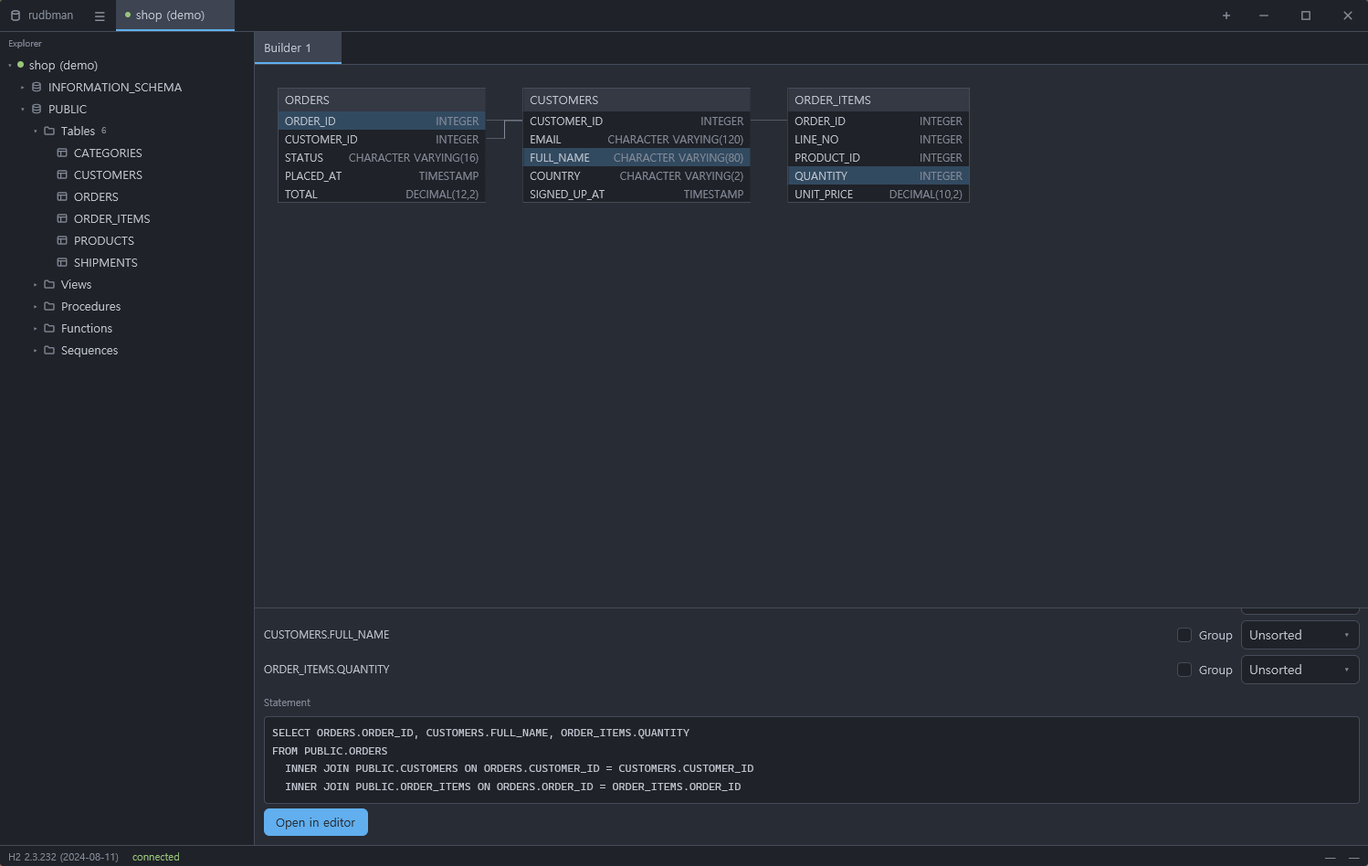
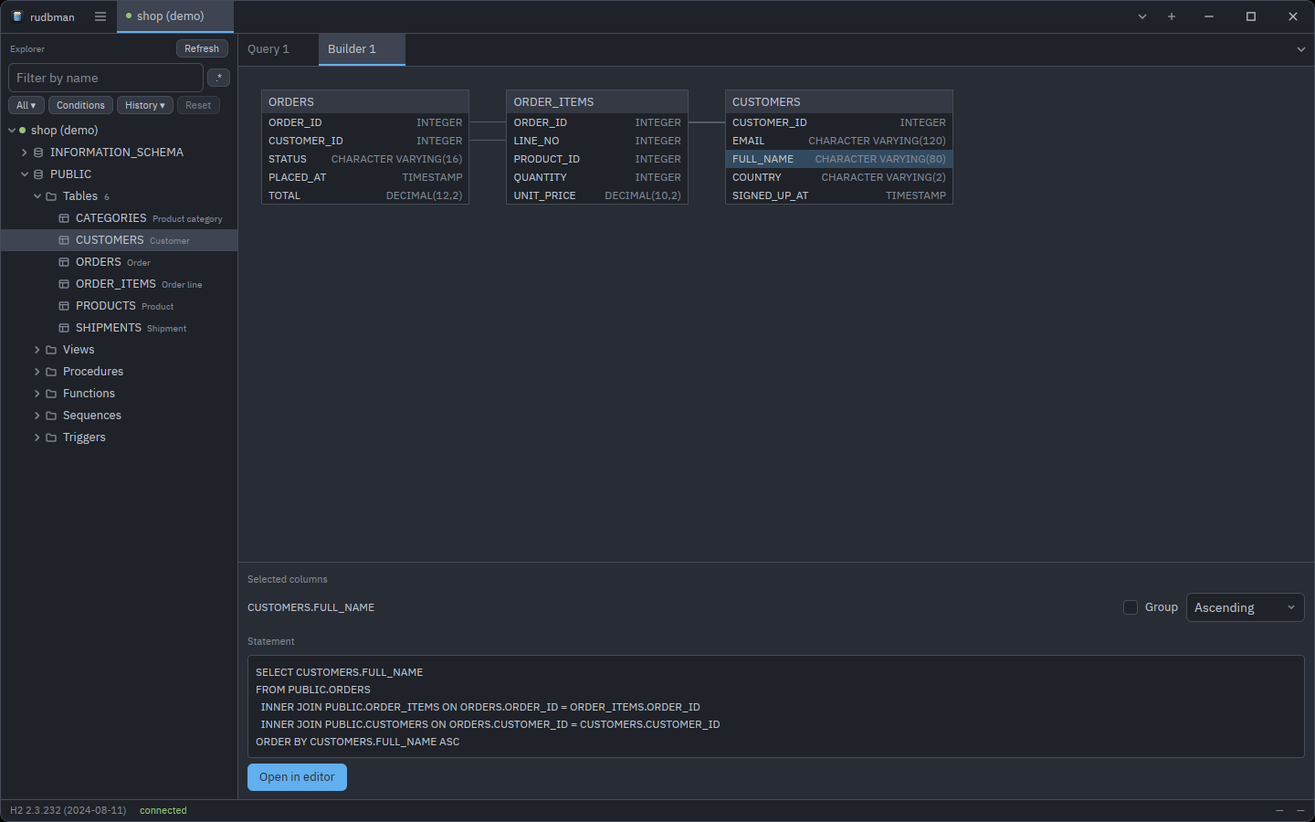
docs: retake screenshots and trim the README
The workbench, ERD and query builder screenshots are retaken from v0.3.8 so
they show the current UI: the editor toolbar, the explorer filter row, the
result log and the ERD toolbar.

The README lists each feature on one line, drops the keyboard shortcut table
and the pointer to the design documents, and names the third-party libraries.

Changed region(s): [[0.0, 0.0, 1.0, 0.56], [0.0, 0.6844, 1.0, 1.0], [0.875, 0.7156, 0.9688, 0.7778]]

diff --git a/README.md b/README.md
@@ -19,309 +19,29 @@ does; this page is the short version.
 
 ## What works today
 
-- **Any JDBC driver.** Drivers are downloaded from Maven Central by
-  coordinate or picked from disk, the driver class is auto-detected from the
-  JAR, and each connection gets its own isolated class loader. H2,
-  PostgreSQL, MySQL, MariaDB, SQLite, Oracle, SQL Server and IBM Db2 come
-  predefined, with their SQL dialects. Row data
-  crosses the JNI boundary in a compact columnar batch format — not as one
-  JSON string per row.
-- **Connections as tabs**, each with its own work area: split panes, tabbed
-  editors and table details, per-connection query numbering. Switching the
-  connection tab switches the explorer and the whole work area with it. With
-  nothing open, a welcome screen lists the saved connections and opens one in
-  a click. Reopening a connection restores its tabs, split layout, SQL drafts,
-  and query builders. Right-click a work tab to rename it; leave its name blank
-  to return to the default. Workspaces save automatically and on close. SQL is
-  restored without running it; result rows and unapplied database edits are not
-  saved. Splitting copies the selected tab into the new pane. Drag a work tab to
-  reorder it or move it to another pane, and drag a connection tab to reorder
-  the connections. A pane disappears when its last tab closes, with the final
-  pane kept open.
-- **Connection folders.** Group saved connections by folder in the connection
-  dialog. Click a folder heading to collapse or expand it, or focus it with
-  <kbd>Tab</kbd> and press <kbd>Space</kbd> or <kbd>Enter</kbd>. Folded folders
-  stay folded when you reopen the dialog during the same app session.
-- **Connections that say why they failed.** A tab that could not connect, or
-  whose session ended, shows the whole error and a hint in its work area, with
-  **Reconnect** (in the same tab), **Edit connection…** and **Copy message**;
-  a bastion's unknown host key can be trusted right there. While connecting
-  the tab can be canceled, and an attempt gives up after the connection
-  timeout in Settings (30 seconds unless changed).
-- **SSH tunnels** with password or private-key auth, loopback binds only,
-  and no PTY on the bastion — `nologin` jump hosts work. Secrets live in the
-  OS keychain, never on disk, and credentials are masked out of logs and
-  JDBC URLs; turn off **Remember password in the system keychain** on a
-  profile to keep nothing and be asked on every connect.
-- **The connection dialog keeps what you type.** Closing it with unsaved
-  edits — Esc, Cancel or a click beside it — asks Save / Discard / Keep
-  editing, and inside it <kbd>Ctrl</kbd>/<kbd>Cmd</kbd>+<kbd>N</kbd> makes a
-  new profile and <kbd>Ctrl</kbd>/<kbd>Cmd</kbd>+<kbd>S</kbd> saves. A new
-  profile starts with no driver chosen; a driver without its JAR offers
-  **Download** right under the picker (from its Maven coordinate, with
-  progress and cancel), and **Drivers…** opens on the driver the form names.
-  The welcome list's right-click menu offers Connect, Edit…, Duplicate… and
-  Delete….
-- **A schema explorer** — catalogs, schemas, tables, views (materialized ones
-  too), procedures, functions, sequences and triggers, opened on connect onto
-  the database and schema the connection landed in, with a filter over the
-  tree: names (`cust`, `*_seq`, `orders, items`, `!tmp*`) or a regular
-  expression, plus a panel of conditions on the name, the comment or the
-  schema (contains, starts with, wildcard, regex, empty…) taken all together
-  or any one of them. It narrows the folders you pick, in the database the
-  connection landed in or in all of them, keeps its own state for each
-  connection tab — and is back as you left it when the profile connects
-  again — and remembers the filters you used for each profile — one
-  click resets the whole filter, and an entry of the remembered list goes with
-  its × or <kbd>Delete</kbd>. Each profile can also hide catalogs, schemas and objects for good, by regular
-  expression (or show only the ones a list matches), as SQL Workbench/J's
-  schema and catalog filters do; a level left with one member is skipped as if
-  the rest were never there — and a
-  detail panel with
-  columns, keys, references in both directions, and DDL in a read-only,
-  highlighted editor (the server's own text where the dialect offers it,
-  rebuilt from the catalog where it does not). Every kind of object shows its
-  `CREATE`, laid out for reading: one column to a line, a view's query as Format
-  SQL writes it, a routine's or a trigger's body indented by block.
-  <kbd>Ctrl</kbd>/<kbd>Cmd</kbd>-click and <kbd>Shift</kbd>-click (or
-  <kbd>Shift</kbd>+<kbd>↑</kbd>/<kbd>↓</kbd>) pick several rows of the tree,
-  and <kbd>Ctrl</kbd>/<kbd>Cmd</kbd>+<kbd>C</kbd> copies their names, one per
-  line; a table's or a view's right-click menu also copies a laid-out
-  `SELECT` of every column — and a table's an `INSERT` with a `:column`
-  placeholder per value — for every table picked. The detail panel's column
-  list picks rows the same way and copies their names, one per line or
-  comma-separated, or the whole rows as tab-separated text.
-- **A SQL workbench**: an editor with incremental dialect-aware highlighting
-  and IME support, SQL keyword/function/table/column completion (including table aliases),
-  statement splitting, run-one/run-selection/run-all,
-  cancellation, multiple result sets, and a virtualized grid that fetches rows
-  as you scroll instead of loading the whole result — up to 200,000 rows per
-  grid, with a note when the result has more.
-  **Format SQL** (<kbd>Ctrl</kbd>/<kbd>Cmd</kbd>+<kbd>Shift</kbd>+<kbd>F</kbd>)
-  lays out the selection, or the whole editor, in the sqlstyle.guide river
-  layout. On a connection that does not commit each statement as it runs, the
-  editor's **Commit** and **Rollback** buttons (<kbd>F11</kbd> /
-  <kbd>F12</kbd>) end the transaction; while it is open the status bar says
-  so, the connection tab wears a dot, the two buttons are lit, and grid
-  applies, structure changes and transfers on that connection are refused —
-  naming the query tab to commit from — rather than committing or discarding
-  it. <kbd>Esc</kbd> in the editor or the results stops a running statement.
-  A script that fails part way logs which statement of how many failed, with
-  its SQL and the error, keeps the results of the statements before it, and
-  selects the failed statement in the editor; error messages and log rows can
-  be copied. The row count reads "500+ rows" while more remain to be fetched,
-  and a run of writes reports the rows they affected.
-  Completion opens while typing or with <kbd>Ctrl</kbd>+<kbd>Space</kbd>:
-  use ↑/↓ to choose, Enter/Tab to insert, and Esc to dismiss. Names come from
-  the current connection, with columns loaded on demand; comments and string
-  literals do not trigger suggestions.
-  Built-in function suggestions include `COUNT`, `SUM`, `AVG`, `MIN`, `MAX`
-  and common scalar functions for the connection's dialect. Completing a
-  function replaces its name while preserving any existing arguments.
-- **Query history.** Every statement a query tab runs because you asked it
-  to is written down per connection profile — when it ran, how long it took,
-  and the rows it returned, the rows it changed or the error it stopped at.
-  **Query history…** (<kbd>Ctrl</kbd>/<kbd>Cmd</kbd>+<kbd>Shift</kbd>+<kbd>H</kbd>,
-  the ☰ menu or a connection tab's right-click menu) lists them newest first
-  with the whole statement under the list: type to search, <kbd>↑</kbd>/<kbd>↓</kbd>
-  to move, and <kbd>Enter</kbd> or a double-click opens the statement in a
-  **new query tab**, without running it. **Copy SQL**, **Delete** and
-  **Clear history…** are beside it, and on a row's right-click menu. A sort's
-  re-run, a grid apply, a plan and a write the profile refused are not
-  recorded. The history is kept, as plain JSON, in `history/<profile-id>.json`
-  under the configuration directory (`~/.config/rudbman` on Linux,
-  `~/Library/Application Support/rudbman` on macOS,
-  `%APPDATA%\rudbman\config` on Windows), up to 1,000 statements and 4 MiB of
-  SQL per profile, oldest dropped first; a statement over 256 KiB is not
-  recorded. Statements can carry secrets: **Keep a history of the statements
-  query tabs run** in Settings turns recording off (what was recorded stays
-  until it is deleted).
-- **Execution plans without running anything.** **Explain plan**
-  (<kbd>Ctrl</kbd>/<kbd>Cmd</kbd>+<kbd>Shift</kbd>+<kbd>E</kbd>, the editor's
-  right-click menu, the toolbar, or the ☰ menu) shows the plan of the
-  selection, or of the statement under the caret, as a read-only "Plan" grid
-  in the result area; the log says the statement was not run, and it is not.
-  PostgreSQL, MySQL, MariaDB and H2 are asked with `EXPLAIN`, SQLite with
-  `EXPLAIN QUERY PLAN`, Oracle with `EXPLAIN PLAN FOR` and then
-  `DBMS_XPLAN.DISPLAY()`, and SQL Server with `SET SHOWPLAN_TEXT ON`, the
-  statement, and `SET SHOWPLAN_TEXT OFF` — sent even when the plan fails, and
-  a failure to send it is said in red, since the connection would otherwise
-  answer every later statement with a plan. Db2 needs explain tables of its
-  own and is not asked; any other driver gets `EXPLAIN` and the database's own
-  answer. A plan is not a write, so a read-only profile and "ask before
-  writes" let it through. Two cautions: Oracle's `EXPLAIN PLAN` writes the
-  plan into the session's temporary `PLAN_TABLE`, which under manual commit
-  joins the open transaction (and which a read-only connection may refuse);
-  and while SQL Server's option is on, anything else sent on the same
-  connection in that moment — another tab's statement, the explorer — is
-  planned rather than run.
-- **BLOB/CLOB viewing and editing.** Double-click a LOB cell (including NULL)
-  or choose **Open LOB** from its context menu. CLOBs use a text editor and
-  UTF-8 files; BLOBs use editable hexadecimal byte pairs and binary files.
-  **Save to file** exports the complete value. **Replace from file** snapshots
-  a replacement without changing the database. **Add to changes** (Ctrl/Cmd+Enter)
-  stages the value; the grid's existing **Apply** preview and transaction perform
-  the database update. Empty values and NULL remain distinct. Read-only results
-  can still be viewed and saved. The first 1 MiB is shown for larger values;
-  these stay fully exportable and can be replaced from a file without loading
-  the whole value into the editor. Result snapshots use temporary disk space
-  and are removed when the result and its edits are released.
-- **A table's rows, filtered.** The data tab has a `WHERE` strip under its
-  toolbar: type a condition such as `status = 'open'` and press
-  <kbd>Enter</kbd> (or **Filter**), and the rows are read again under it, in
-  the order the grid is sorted by; <kbd>Esc</kbd> or **Clear** brings every
-  row back, and <kbd>Ctrl</kbd>/<kbd>Cmd</kbd>+<kbd>F</kbd> puts the keyboard
-  in the field. A leading `WHERE` and a trailing `;` are taken off, a second
-  statement after the condition is refused, and a condition the database
-  rejects is reported like any failed load and stays in the field to be
-  corrected. "Filtered" beside the row count says the rows are not all of
-  them; editing and **Apply** work as usual, and the filter is kept with the
-  workspace and copied by a split. Like a sort or a refresh, changing it waits
-  for staged edits to be applied or discarded.
-- **Multiline text cells** show the first line followed by visible `\n`
-  separators. Double-click or choose **Open text editor** to edit the actual
-  lines in the same viewer, then stage and Apply as usual. Copying and database
-  writes keep the original line breaks; ordinary text remains a string value.
-- **ERD diagrams** of a whole schema or catalog, from the explorer with
-  <kbd>Ctrl</kbd>/<kbd>Cmd</kbd>+<kbd>E</kbd>. A large schema says how many
-  tables' keys have been read and can be canceled; so can a table's rows
-  while they load or re-sort. Tables are placed by a
-  hierarchical (Sugiyama) layout of rudbman's own and joined by orthogonal
-  routed edges; drag a table and the new position is saved per connection and
-  restored next time. Export the diagram as SVG.
-- **A visual query builder.** Drag tables out of the explorer onto a canvas,
-  click columns to toggle them into the `SELECT` list, and drag column to
-  column to join (`INNER`, `LEFT`, `RIGHT`, `FULL`) — or pick the two columns
-  in the Joins form, which appears once two tables are on the canvas. The
-  canvas and the form say which of these gestures to use until each is used. Forms cover `WHERE`,
-  `GROUP BY` and `ORDER BY`, the SQL preview updates as you go with
-  identifiers quoted the way the dialect wants them, and one click opens the
-  statement in an editor.
-- **Backup** of a schema or catalog to a replayable `.sql`, at the level of a
-  schema dump: the server's own `CREATE TABLE` wherever it can be had (MySQL,
-  MariaDB, H2, Oracle, SQLite), sequences, views, routines and triggers as you
-  choose, `INSERT`s ordered by a topological sort of the foreign keys and the
-  keys added after them, identity and sequence counters carried over, and
-  routine bodies written the way each product's own client reads a script.
-  Optionally gzipped, with progress and cancellation.
-- **Restore from a script** into a schema or catalog: a backup, `pg_dump
-  --inserts`, `mysqldump`, `mariadb-dump`, an SSMS or SQL Developer script,
-  plain or gzipped, read the way the product's own client reads it —
-  `DELIMITER`, `GO`, SQL\*Plus's `/` and `SET DEFINE OFF`, psql's
-  `\restrict` — on a session of its own, checked through before anything runs,
-  with progress and cancellation. "Run all" in the editor reads a script by the
-  same rules.
-- **DB-to-DB transfer.** Copy tables between two open connections, by plain
-  insert or by upsert — `MERGE`, `ON CONFLICT` or `ON DUPLICATE KEY` as the
-  target dialect spells it. On a bad row, abort, skip it, or log it and carry
-  on (batches are isolated with savepoints so one bad row does not cost the
-  batch), with per-row progress for both copied and skipped rows. The target
-  starts on another open connection rather than the source's, a transfer of a
-  table into itself is refused, and "Empty the target table first" asks before
-  it deletes, saying how many rows will go.
-- **Script extraction**: any table to a replayable `.sql`, to CSV, or
-  through a user template — streamed to the file inside the JVM with progress
-  and cancellation. Script execution is the same editor pipeline: open a
-  `.sql` file, run it, get per-statement errors. Ctrl/Cmd+S saves a query tab to
-  its `.sql` file (asking where the first time, over the tab's name with
-  today's date after it) and "Save SQL file as…" saves it under a new name; a
-  name typed without an extension is saved as `.sql`. The tab then takes the
-  file's name, and a dot marks
-  changes not yet saved. A file changed on disk since the tab read or saved it
-  is never overwritten in place; the save asks where instead.
-- **Closing never loses work silently.** A tab with staged row or structure
-  changes refuses to close — and so do the pane and the connection tab
-  holding it — until the changes are applied or discarded. A query tab bound
-  to a `.sql` file with unsaved changes asks Save / Don't save / Cancel
-  wherever it is closed from; a tab bound to no file is a draft and closes
-  without asking. Closing a connection with an uncommitted transaction or a
-  running statement asks first. Quitting, closing the window and the restart
-  after an update list everything they would lose and offer **Save all** for
-  the files.
-  <kbd>Ctrl</kbd>+<kbd>W</kbd> closes the tab on top (on macOS
-  <kbd>Cmd</kbd>+<kbd>W</kbd> still closes the pane), and
-  <kbd>Ctrl</kbd>/<kbd>Cmd</kbd>+<kbd>Shift</kbd>+<kbd>T</kbd> reopens the
-  query or builder tab closed most recently.
-- **Context menus** on every surface that has actions worth reaching for —
-  the explorer tree, the result grid, the editor, the ERD and builder
-  canvases, and the tab strips. <kbd>Shift</kbd>+<kbd>F10</kbd> or the Menu
-  key opens the one where the keyboard is, and <kbd>F10</kbd> opens the ☰
-  menu (Linux and Windows).
-- **Short notices in the corner** for what belongs to no tab: a shortcut that
-  needs a live connection, a file that could not be read, a builder table
-  whose columns could not be read, a keychain that is not available.
-- **Themes and languages**: UI and editor theme registries with live
-  preview, import/export, and a user theme directory; eight UI languages
-  (en, ko, ja, zh-CN, de, es, fr, ru). **Interface size** in Settings scales
-  the whole chrome — text, buttons, icons, checkboxes, rows, tab strips, the
-  toolbar, the status bar and the dialogs — from the default 14 pt, with a live
-  preview. The SQL editor and the ERD keep their own font size and zoom.
-
-## Keyboard shortcuts
-
-On macOS read <kbd>Cmd</kbd> for <kbd>Ctrl</kbd> in the table, except where a
-row says otherwise. The pane chords use <kbd>Alt</kbd> on Linux and Windows and
-<kbd>Cmd</kbd> on macOS. Every command is also in the ☰ menu (the menu bar on
-macOS), with its chord beside it.
-
-The ☰ menu's **Keyboard shortcuts** (in the rudbman menu on macOS) shows the
-main ones in the app, with the chords the platform it runs on uses; its
-**User guide** opens the [user guide](docs/user-guide.md).
-
-| Where | Keys | Does |
-|---|---|---|
-| Window | <kbd>Ctrl</kbd>+<kbd>N</kbd> | Manage connections (in the connection dialog: new profile) |
-| | <kbd>Ctrl</kbd>+<kbd>,</kbd> | Settings |
-| | <kbd>Ctrl</kbd>+<kbd>Shift</kbd>+<kbd>H</kbd> | Query history of the connection on screen; in it <kbd>↑</kbd>/<kbd>↓</kbd> move, <kbd>Enter</kbd> opens the statement in a new query tab |
-| | <kbd>Ctrl</kbd>+<kbd>B</kbd> | Show or hide the explorer |
-| | <kbd>Ctrl</kbd>+<kbd>Q</kbd> | Quit (asks first when something would be lost, as closing the window does) |
-| | <kbd>F10</kbd> | Open the ☰ menu on its first row (Linux and Windows; on macOS the commands are in the menu bar) |
-| | <kbd>Shift</kbd>+<kbd>F10</kbd>, <kbd>Menu</kbd> | Open the context menu of what has the keyboard: the explorer's selection, the SQL editor at the caret, the grid's cell, a saved connection on the welcome screen |
-| Tabs | <kbd>Ctrl</kbd>+<kbd>T</kbd> | New query tab |
-| | <kbd>Ctrl</kbd>+<kbd>W</kbd> | Close the tab on top (Linux and Windows) |
-| | Middle-click a tab | Close it, asking first as <kbd>Ctrl</kbd>+<kbd>W</kbd> does (also on connection tabs) |
-| | <kbd>Ctrl</kbd>+<kbd>Shift</kbd>+<kbd>T</kbd> | Reopen the query or builder tab closed last |
-| | <kbd>Ctrl</kbd>+<kbd>PgDn</kbd> / <kbd>PgUp</kbd>, <kbd>Ctrl</kbd>+<kbd>Tab</kbd> / <kbd>Ctrl</kbd>+<kbd>Shift</kbd>+<kbd>Tab</kbd> | Next / previous tab of the pane (macOS: <kbd>Cmd</kbd>+<kbd>Alt</kbd>+<kbd>→</kbd> / <kbd>←</kbd>) |
-| | <kbd>Ctrl</kbd>+<kbd>1</kbd>–<kbd>8</kbd>, <kbd>Ctrl</kbd>+<kbd>9</kbd> | That tab, the last tab |
-| | <kbd>Ctrl</kbd>+<kbd>Alt</kbd>+<kbd>PgDn</kbd> / <kbd>PgUp</kbd> | Next / previous connection tab (Linux and Windows) |
-| Panes | <kbd>Alt</kbd>+<kbd>Shift</kbd>+<kbd>D</kbd> / <kbd>S</kbd> | Split right / below |
-| | <kbd>Alt</kbd>+<kbd>W</kbd> | Close the pane |
-| | <kbd>Alt</kbd>+<kbd>]</kbd> / <kbd>[</kbd> | Next / previous pane, keyboard included |
-| | <kbd>F6</kbd> / <kbd>Shift</kbd>+<kbd>F6</kbd> | Explorer → editor → results, and back |
-| Files | <kbd>Ctrl</kbd>+<kbd>O</kbd> | Open a `.sql` file |
-| | <kbd>Ctrl</kbd>+<kbd>S</kbd> / <kbd>Ctrl</kbd>+<kbd>Shift</kbd>+<kbd>S</kbd> | Save the query tab / save as (no save-as chord on macOS) |
-| Explorer | <kbd>Ctrl</kbd>+<kbd>Enter</kbd> | Query the selected object |
-| | <kbd>Ctrl</kbd>+<kbd>E</kbd> | ERD of the selection's schema |
-| | <kbd>Ctrl</kbd>+<kbd>C</kbd> | Copy the names of the selected rows (also in the detail panel's column list) |
-| | <kbd>Shift</kbd>+<kbd>↑</kbd> / <kbd>↓</kbd> | Select a run of rows |
-| | <kbd>Ctrl</kbd>+<kbd>F</kbd> | Filter the tree by name; in the box <kbd>Enter</kbd> opens the folders with matches and goes back to the tree, <kbd>Esc</kbd> clears it (pressed again, goes back to the tree) |
-| | <kbd>Alt</kbd>+<kbd>R</kbd> | In the filter box: read it as a regular expression, or as names again |
-| SQL editor | <kbd>Ctrl</kbd>+<kbd>Enter</kbd> | Run the statement under the caret |
-| | <kbd>Ctrl</kbd>+<kbd>Alt</kbd>+<kbd>Enter</kbd> | Run the selection |
-| | <kbd>Ctrl</kbd>+<kbd>Shift</kbd>+<kbd>Enter</kbd> | Run everything |
-| | <kbd>Esc</kbd> | Stop the running statement (also in the results) |
-| | <kbd>F11</kbd> / <kbd>F12</kbd> | Commit / roll back (manual-commit connections; macOS: <kbd>Ctrl</kbd>+<kbd>Cmd</kbd>+<kbd>C</kbd> / <kbd>R</kbd>, since F11 is Show Desktop there) |
-| | <kbd>Ctrl</kbd>+<kbd>Shift</kbd>+<kbd>F</kbd> | Format SQL |
-| | <kbd>Ctrl</kbd>+<kbd>Shift</kbd>+<kbd>E</kbd> | Show the plan of the statement under the caret, or of the selection, without running it (also from the explorer, for the query tab on screen) |
-| | <kbd>Ctrl</kbd>+<kbd>Space</kbd> | Completion |
-| | <kbd>Ctrl</kbd>+<kbd>F</kbd> / <kbd>Ctrl</kbd>+<kbd>H</kbd> | Find / replace |
-| | <kbd>Ctrl</kbd>+<kbd>/</kbd> | Toggle comment |
-| Data grid | <kbd>Delete</kbd> (macOS: also <kbd>Backspace</kbd>) | Mark the selected rows for deletion, or unmark them |
-| | <kbd>F2</kbd>, or start typing | Edit the cell (LOB and multiline values open the viewer) |
-| | <kbd>Ctrl</kbd>+<kbd>V</kbd> | Paste tab-separated cells from the cursor on, or one value into every selected cell |
-| | <kbd>Ctrl</kbd>+<kbd>0</kbd>, <kbd>Shift</kbd>+<kbd>Delete</kbd> | Set the cell to NULL |
-| | <kbd>Alt</kbd>+<kbd>Insert</kbd> | Add a row |
-| | <kbd>Ctrl</kbd>+<kbd>S</kbd>, <kbd>Ctrl</kbd>+<kbd>Enter</kbd> | Apply (shows the statements first) |
-| | <kbd>F5</kbd> | Read the rows again |
-| | <kbd>Ctrl</kbd>+<kbd>F</kbd> | Put the keyboard in the data tab's filter field; there <kbd>Enter</kbd> applies the condition and <kbd>Esc</kbd> clears it |
-| | <kbd>Ctrl</kbd>+<kbd>C</kbd> | Copy the selected cells |
-| ERD | <kbd>Ctrl</kbd>+<kbd>=</kbd> / <kbd>-</kbd> / <kbd>0</kbd> | Zoom in / out / actual size |
-| | <kbd>Ctrl</kbd>+<kbd>Shift</kbd>+<kbd>A</kbd> / <kbd>L</kbd> | Auto-arrange / switch to comment names |
-| Dialogs | <kbd>Esc</kbd> | Close; over a running extraction, transfer or backup, ask whether to stop it; over unsaved connection edits, ask first |
-| | <kbd>Enter</kbd> | In a field: Connect, Start, or Close a finished job. On a focused button: that button — a write or discard question opens with Cancel focused |
-
-`Delete`, `F2`, typing and `Ctrl+V` work the same in a query result that can be
-written back to its table.
+- **Any JDBC driver** — downloaded from Maven Central or picked from disk; eight popular databases come predefined.
+- **Connection tabs** — each connection keeps its own panes and tabs, restored when it reopens.
+- **Connection folders** — saved connections grouped into folders that fold away.
+- **Clear connection errors** — a failed tab shows the whole error with Reconnect and Edit connection.
+- **SSH tunnels** — password or key auth through a bastion; secrets stay in the OS keychain.
+- **Connection dialog** — asks before dropping unsaved edits and downloads a missing driver in place.
+- **Schema explorer** — every object type, name and regex filters, and a detail panel with columns, keys and DDL.
+- **SQL workbench** — dialect-aware highlighting, completion, Format SQL, transactions and a virtualized result grid.
+- **Query history** — the statements each connection ran, searchable and reopened in a new tab.
+- **Execution plans** — a statement's plan without running it.
+- **BLOB/CLOB editing** — view, edit, save and replace large values, applied with the grid's changes.
+- **Table filters** — a `WHERE` strip narrows a table's rows.
+- **Multiline text cells** — edited as real lines in a text viewer.
+- **ERD diagrams** — schema diagrams laid out automatically, with saved positions and SVG export.
+- **Visual query builder** — drag tables, tick columns and drag joins, with a live SQL preview.
+- **Backup** — a schema or catalog to a replayable, optionally gzipped `.sql`.
+- **Restore** — a backup or another tool's dump script run into a schema the way that product's client reads it.
+- **DB-to-DB transfer** — tables copied between connections by insert or upsert, with bad-row handling.
+- **Script extraction** — tables to SQL, CSV or a template; `.sql` files opened, run and saved.
+- **Safe closing** — staged edits, unsaved files and open transactions are never dropped silently.
+- **Context menus** — on every surface, and reachable from the keyboard.
+- **Corner notices** — short messages for what belongs to no tab.
+- **Themes and languages** — UI and editor themes, eight interface languages and a scalable interface size.
 
 ## Installing
 
@@ -433,13 +153,6 @@ Git revision in the root Cargo manifest. Cargo fetches it automatically. The
 application keeps its own settings, keychain, Java bridge protocol and dialog
 layout; its SSH crate is a compatibility facade over the shared transport.
 
-
-The design document — the JNI wire protocol, the columnar batch codec, the
-data-plane rule that row data never crosses the JNI boundary, the SSH tunnel
-lifecycle, and the milestone plan — lives in
-[docs/architecture.md](docs/architecture.md). Current progress and
-open items are tracked in [docs/status.md](docs/status.md).
-
 The widget kit, the virtualized result grid and the code editor are not in this
 repository. They are [rugpui](https://github.com/xcomart/rugpui), extracted so that
 the three desktop applications built on them stop carrying byte-identical
@@ -470,6 +183,48 @@ that copy, which is what keeps one gpui in the binary — two would make the
 single origin of those trees:
 [rulogman](https://github.com/xcomart/rulogman) points its patch table at the
 same copy, so a fix made there reaches both projects.
+
+### Third-party libraries
+
+The heavy lifting is done by these projects:
+
+| Library | Role |
+| --- | --- |
+| [gpui](https://github.com/zed-industries/zed/tree/main/crates/gpui) | GPU-accelerated UI framework, from the Zed editor (a pinned git revision, partly vendored and patched in rugpui) |
+| [jni](https://github.com/jni-rs/jni-rs) | Starts the embedded JVM and calls into the JDBC bridge |
+| [Gson](https://github.com/google/gson) | The bridge's one Java dependency: JSON for metadata and requests |
+| [russh](https://github.com/warp-tech/russh) | Pure-Rust SSH client behind the tunnels, through rudbkit |
+| [tokio](https://github.com/tokio-rs/tokio) | Async runtime for the SSH tunnel |
+| [keyring](https://github.com/open-source-cooperative/keyring-rs) | OS credential store: Windows Credential Manager, macOS Keychain, Secret Service |
+| [directories](https://github.com/soc/directories-rs) | Per-platform configuration paths, and the home directory the file dialogs fall back to |
+| [ureq](https://github.com/algesten/ureq) | The one HTTPS client: driver downloads from Maven Central, and the update check |
+
+Supporting crates:
+[serde](https://github.com/serde-rs/serde) /
+[serde_json](https://github.com/serde-rs/json) (profiles, settings, workspaces
+and the bridge's metadata),
+[uuid](https://github.com/uuid-rs/uuid) (profile and driver identity),
+[anyhow](https://github.com/dtolnay/anyhow) /
+[thiserror](https://github.com/dtolnay/thiserror) (errors),
+[log](https://github.com/rust-lang/log) /
+[env_logger](https://github.com/rust-cli/env_logger) (logging),
+[futures](https://github.com/rust-lang/futures-rs) /
+[async-trait](https://github.com/dtolnay/async-trait) (async glue),
+[parking_lot](https://github.com/Amanieu/parking_lot),
+[tempfile](https://github.com/Stebalien/tempfile) (LOB snapshots),
+[flate2](https://github.com/rust-lang/flate2-rs) (reading a gzipped backup),
+[chrono](https://github.com/chronotope/chrono) (query history timestamps),
+[regex](https://github.com/rust-lang/regex) (the explorer filter),
+[unicode-width](https://github.com/unicode-rs/unicode-width) (ERD box widths),
+[rust-i18n](https://github.com/longbridge/rust-i18n) /
+[sys-locale](https://github.com/1Password/sys-locale) (localization).
+
+Linux only: [secret-service](https://github.com/hwchen/secret-service-rs)
+(creating a default keyring when there is none). Windows only:
+[windows-rs](https://github.com/microsoft/windows-rs) (the parent console for
+`--version`), [winresource](https://github.com/BenjaminRi/winresource) (icon
+embedding). Tests additionally use [H2](https://github.com/h2database/h2database)
+and [JUnit](https://github.com/junit-team/junit5) on the bridge side.
 
 ## AI-assisted development
 
